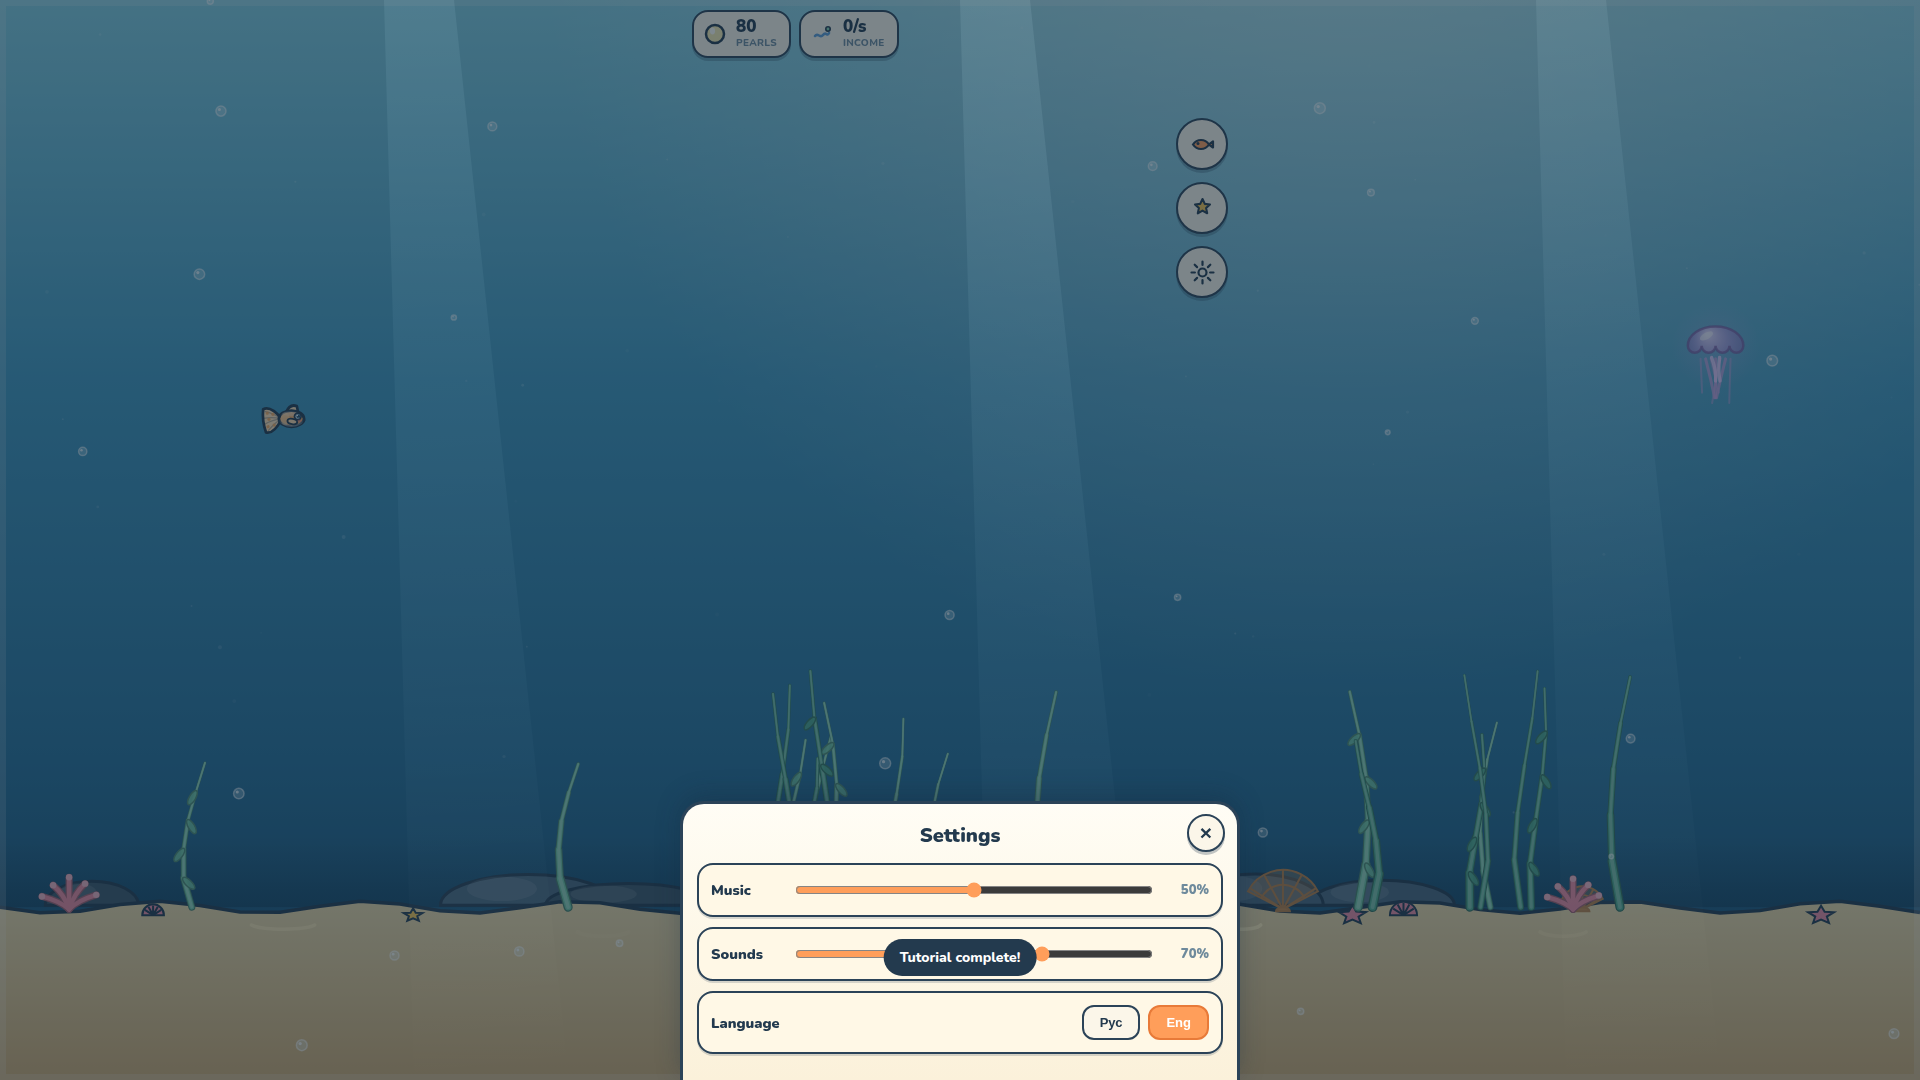
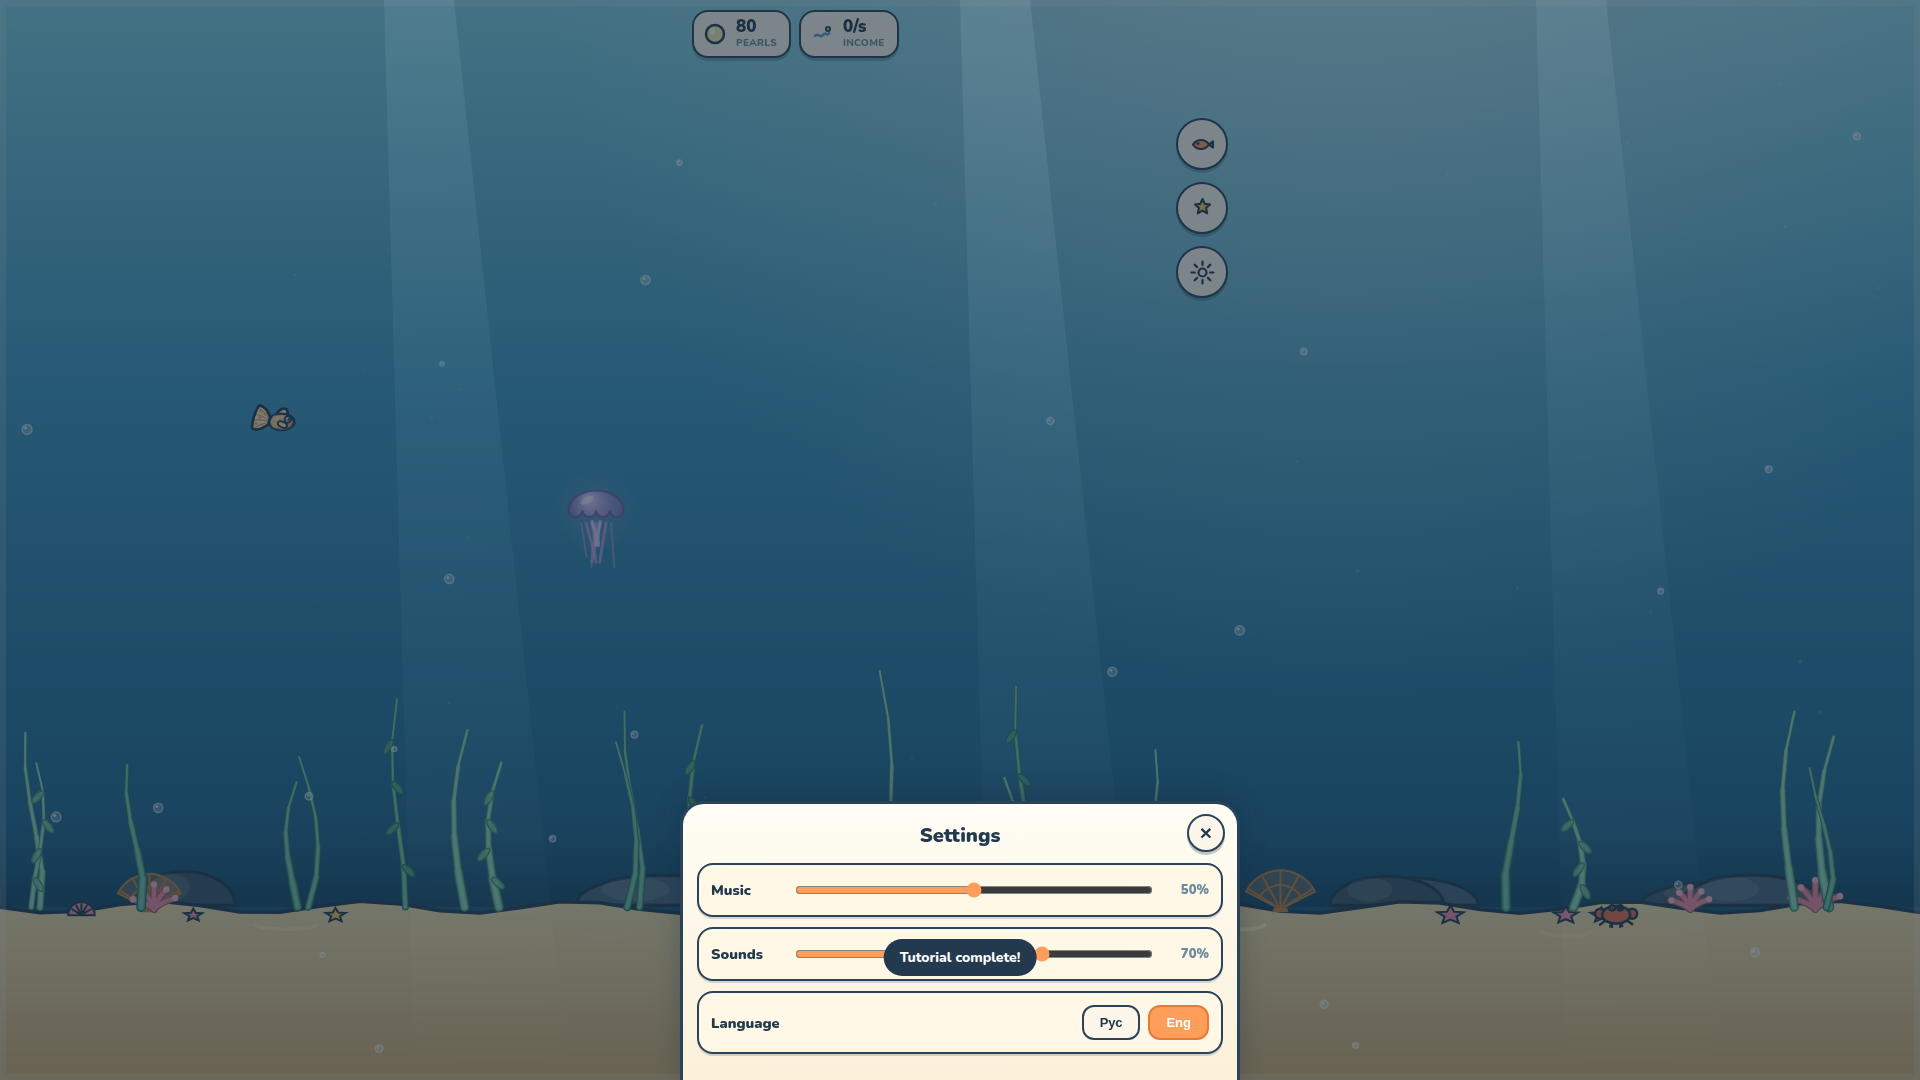
Аквариум: ×2 теперь приносит краб с табличкой
- кнопка «Доход ×2» убрана из нижнего ряда, там осталось три кнопки
  (Купить / Покормить / Мульти-тап)
- краб на дне раз в 70–130 секунд выносит табличку «Доход ×2» на шесте
  и держит её около 26 секунд: табличка светится, на ней значок ролика,
  тап по крабу запускает rewarded и удваивает фоновый доход на 5 минут
- пока ×2 активен, краб табличку не носит; после использования уходит
  на новый кулдаун; появление таблички сопровождается тостом и звуком
- табличка не уезжает за край экрана, когда краб доходит до стенки
- состояние таблички переживает resize (краб пересоздавался в
  buildScenery и терял её)
- тесты (55 проверок), генератор ассетов и тексты карточки обновлены

Claude-Session: https://claude.ai/code/session_01E1W4bJFq3d3FdtAVHT6PQt

diff --git a/index.html b/index.html
@@ -153,7 +153,6 @@
     <button class="abtn buyfish" id="buyBtn"><span class="bt" id="buyT">Купить</span><span class="bs"><svg viewBox="0 0 12 12"><circle cx="6" cy="6" r="4" fill="#F7EAB0" stroke="#fff" stroke-width="1.2"/></svg><span id="buyS">60</span></span></button>
     <button class="abtn main" id="feedBtn"><span class="bt" id="feedT">Покормить</span><span class="bs"><svg viewBox="0 0 12 12"><circle cx="6" cy="6" r="4" fill="#F7EAB0" stroke="#fff" stroke-width="1.2"/></svg><span id="feedS">8</span></span></button>
     <button class="abtn blue" id="multiBtn"><span class="bt" id="multiT">Мульти-тап</span><span class="bs"><svg viewBox="0 0 12 12"><path d="M3 2l7 4-7 4z" fill="#fff"/></svg><span id="multiS">2 мин</span></span></button>
-    <button class="abtn lav" id="x2Btn"><span class="bt" id="x2T">Доход ×2</span><span class="bs"><svg viewBox="0 0 12 12"><path d="M3 2l7 4-7 4z" fill="#fff"/></svg><span id="x2S">5 мин</span></span></button>
   </div>
 </div>
 <div id="side">
@@ -205,6 +204,8 @@ const STR = {
   tut3:{ru:"3/3 · Перетащи рыбку на такую же — они объединятся",en:"3/3 · Drag a fish onto a matching one to merge"},
   tutDone:{ru:"Обучение пройдено!",en:"Tutorial complete!"},
   x2:{ru:"Доход ×2",en:"Income ×2"}, x2on:{ru:"×2 идёт",en:"×2 active"},
+  crabSign:{ru:"Краб принёс табличку «Доход ×2» — тапни по нему!",
+            en:"The crab is holding an \u00abIncome \u00d72\u00bb sign — tap him!"},
   need:{ru:"Не хватает жемчуга",en:"Not enough pearls"},
   fishTitle:{ru:"Рыбки аквариума",en:"Your aquarium"},
   upTitle:{ru:"Улучшения аквариума",en:"Aquarium upgrades"},
@@ -436,10 +437,6 @@ function refreshHud(){
   $("multiT").textContent = mOn? T("multiOn") : T("multi");
   $("multiS").textContent = mOn? mins(S.multiUntil-Date.now()) : (lang()==="ru"?"2 мин":"2 min");
   $("multiBtn").classList.toggle("off", mOn);
-  const on=x2On();
-  $("x2T").textContent    = on? T("x2on") : T("x2");
-  $("x2S").textContent    = on? mins(S.x2Until-Date.now()) : (lang()==="ru"?"5 мин":"5 min");
-  $("x2Btn").classList.toggle("off", on);
   renderTut();
   if(modalOpen) buildModal(modalOpen);
 }
@@ -678,7 +675,9 @@ function buildScenery(){
   motes=[]; for(let i=0;i<Math.max(14,Math.round(W/40));i++)
     motes.push({ x:rr(0,W), y:rr(0,H*0.8), r:rr(0.8,2), sp:rr(2,7), dr:rr(2,9), ph:rr(0,6.28) });
   jelly={ x:rr(0,W), y:rr(H*0.28,H*0.5), dir:Math.random()<0.5?1:-1, sp:rr(9,16), ph:0 };
-  crab={ x:rr(60,W-60), dir:Math.random()<0.5?1:-1, sp:rr(10,18), ph:0 };
+  crab = Object.assign({ x:rr(60,W-60), dir:Math.random()<0.5?1:-1, sp:rr(10,18), ph:0,
+    sign:false, signLife:0, signCd:rr(20,40) }, crab||{});
+  crab.x=Math.max(40, Math.min(W-40, crab.x));
 }
 function buildBg(){
   bgCan=document.createElement('canvas'); bgCan.width=Math.max(1,W*DPR); bgCan.height=Math.max(1,H*DPR);
@@ -855,9 +854,40 @@ function drawJelly(t,dt){
   ctx.beginPath(); ctx.ellipse(-bell*0.35,-bell*0.38,bell*0.28,bell*0.13,-0.5,0,6.28); ctx.fill();
   ctx.restore();
 }
+// краб периодически выносит табличку «Доход ×2» — тап по нему запускает ролик
+const SIGN_LIFE=26, SIGN_CD=[70,130];
+function crabY(t){ return sandY+6+Math.abs(Math.sin(t*6))*2; }
+function updateCrab(dt){
+  const c=crab; if(!c) return;
+  if(x2On()){ c.sign=false; c.signCd=Math.max(c.signCd, 20); return; }  // пока ×2 идёт — таблички нет
+  if(c.sign){ c.signLife-=dt; if(c.signLife<=0){ c.sign=false; c.signCd=rr(SIGN_CD[0],SIGN_CD[1]); } }
+  else { c.signCd-=dt; if(c.signCd<=0){ c.sign=true; c.signLife=SIGN_LIFE; if(S.tut>=3) toast(T("crabSign")); sfx("coin"); } }
+}
+function crabHit(x,y,t){
+  const c=crab; if(!c||!c.sign) return false;
+  return Math.hypot(c.x-x, crabY(t||tSec)-y) < 46;
+}
 function drawCrab(t,dt){
   const c=crab; c.x+=c.dir*c.sp*dt; if(c.x>W-40) c.dir=-1; if(c.x<40) c.dir=1;
-  const y=sandY+6+Math.abs(Math.sin(t*6))*2;
+  const y=crabY(t);
+  if(c.sign){ // табличка на шесте в клешне + мягкое свечение, чтобы заметили
+    const sy=y-58+Math.sin(t*2)*3;
+    ctx.save();
+    const gl=ctx.createRadialGradient(c.x,sy,2,c.x,sy,54);
+    gl.addColorStop(0,'rgba(255,235,170,0.30)'); gl.addColorStop(1,'rgba(255,235,170,0)');
+    ctx.fillStyle=gl; ctx.beginPath(); ctx.arc(c.x,sy,54,0,6.28); ctx.fill();
+    ctx.strokeStyle='#8A6B3E'; ctx.lineWidth=3; ctx.lineCap='round';
+    ctx.beginPath(); ctx.moveTo(c.x-12,y-6); ctx.lineTo(Math.max(20,Math.min(W-20,c.x))-4,sy+12); ctx.stroke();
+    ctx.font='900 13px Nunito, sans-serif'; ctx.textAlign='center'; ctx.textBaseline='middle';
+    const label=T("x2"), wpx=ctx.measureText(label).width+30;
+    const sx=Math.max(wpx/2+6, Math.min(W-wpx/2-6, c.x));     // табличка не уезжает за край экрана
+    ctx.fillStyle=PAPER; ctx.strokeStyle=INK; ctx.lineWidth=2.5;
+    roundRect(ctx, sx-wpx/2, sy-13, wpx, 26, 9); ctx.fill(); ctx.stroke();
+    ctx.fillStyle='#B0472E';                                  // значок «посмотреть видео»
+    ctx.beginPath(); ctx.moveTo(sx-wpx/2+9,sy-5); ctx.lineTo(sx-wpx/2+17,sy); ctx.lineTo(sx-wpx/2+9,sy+5); ctx.closePath(); ctx.fill();
+    ctx.fillStyle=INK; ctx.fillText(label, sx+5, sy);
+    ctx.restore();
+  }
   ctx.save(); ctx.translate(c.x,y); ctx.scale(c.dir,1);
   ctx.fillStyle='#E06A4C'; ctx.strokeStyle=INK; ctx.lineWidth=2.5; ctx.lineCap='round';
   // лапки
@@ -1907,6 +1937,7 @@ function frame(now){
   drawTrail(dt);
   drawPopups();
   drawBubbles(tSec,dt);
+  updateCrab(dt);
   drawCrab(tSec,dt);
   requestAnimationFrame(frame);
 }
@@ -1942,6 +1973,10 @@ function onUp(e){
     const target=swimmers.find(s=> s!==dragSw && canMerge(dragSw,s) && Math.hypot(s.x-e.clientX, s.y-e.clientY)<70);
     if(target) mergeFish(dragSw,target);
     dragSw=null; downSw=null; return;
+  }
+  if(!downSw && !moved && crabHit(e.clientX, e.clientY)){  // тап по крабу с табличкой
+    crab.sign=false; crab.signCd=rr(SIGN_CD[0],SIGN_CD[1]);
+    claimX2(); downSw=null; return;
   }
   if(downSw && !moved){                    // короткий тап по рыбке
     if(multiOn()) doCollect(e.clientX,e.clientY);
@@ -1990,6 +2025,8 @@ window.__mergeFirstPair = () => {
 window.__skipTut = () => tutAdvance(3);
 window.__setVolumes = (mus,sfxv) => { S.musVol=mus; S.sfxVol=sfxv; applyVolumes(); persist(true); };
 window.__behOf = lvl => LV(lvl).beh;
+window.__crabSign = () => { crab.sign=true; crab.signLife=SIGN_LIFE; return {x:Math.round(crab.x), y:Math.round(crabY(tSec))}; };
+window.__crabHasSign = () => !!(crab && crab.sign);
 
 // ---------- Boot ----------
 function boot(raw){
@@ -2001,7 +2038,6 @@ function boot(raw){
   $("tutSkip").onclick  = ()=>tutAdvance(3);
   $("buyBtn").onclick   = buyFish;
   $("multiBtn").onclick = claimMulti;
-  $("x2Btn").onclick    = claimX2;
   $("fishBtn").onclick  = ()=>openModal('fish');
   $("upBtn").onclick    = ()=>openModal('up');
   $("setBtn").onclick   = openSettings;

diff --git a/store-assets/CONSOLE-FIELDS.md b/store-assets/CONSOLE-FIELDS.md
@@ -73,7 +73,7 @@
 Живой подводный мир — лучи света, водоросли, кораллы, медуза и краб на дне — успокаивает и радует.
 ```
 
-### Как играть (983/1000)
+### Как играть (1010/1000)
 
 ```
 1. Тапайте по рыбке — она приносит жемчуг. Тап по пустой воде дохода не даёт, только рябь.
@@ -82,11 +82,11 @@
 
 3. Когда две рыбки одного вида выросли, зажмите одну и перетащите на вторую — цель подсветится кругом. Отпустите: получится малёк следующего вида, а сам вид откроется в магазине.
 
-4. «Покормить» бросает корм: хлопья тонут, рыбки едят их не спеша. Когда зелёная шкала дойдёт до золотой риски, рыбка сыта — платит вдвое больше за тап и растёт быстрее. Сытость постепенно тает.
+4. «Покормить» бросает корм: рыбки едят не спеша. Когда зелёная шкала дойдёт до золотой риски, рыбка сыта — платит вдвое больше за тап и растёт быстрее. Сытость постепенно тает.
 
-5. «Мульти-тап» после видео две минуты собирает жемчуг со всех рыбок любым тапом, «Доход ×2» удваивает фоновый доход на 5 минут.
+5. «Мульти-тап» после видео две минуты собирает жемчуг со всех рыбок любым тапом. А краб на дне иногда выносит табличку «Доход ×2» — тапните по нему, чтобы удвоить фоновый доход.
 
-6. Боковые кнопки — магазин рыбок, улучшения и настройки: громкость музыки и звуков, выбор языка.
+6. Боковые кнопки — магазин, улучшения и настройки: громкость музыки и звуков, выбор языка.
 ```
 
 ---
@@ -127,7 +127,7 @@ Upgrade the tank: rich food is more filling, the aerator raises background incom
 A living underwater world — light rays, plants, corals, a jellyfish and a crab on the sand — keeps things calm and cheerful.
 ```
 
-### Как играть (991/1000)
+### Как играть (1002/1000)
 
 ```
 1. Tap a fish — it pays out pearls. Tapping empty water gives nothing, just a ripple.
@@ -136,9 +136,9 @@ A living underwater world — light rays, plants, corals, a jellyfish and a crab
 
 3. When two fish of the same species are grown, drag one onto the other — a valid target lights up. Release to merge them into a fry of the next species, which unlocks in the shop.
 
-4. "Feed" drops food: the flakes sink and fish eat unhurriedly. Once the green bar reaches the golden mark the fish is full — double pearls per tap and faster growth. Satiety slowly fades.
+4. "Feed" drops food and fish eat unhurriedly. Once the green bar reaches the golden mark the fish is full — double pearls per tap and faster growth. Satiety slowly fades.
 
-5. "Multi-tap" after a video lets any tap collect from every fish for two minutes; "Income ×2" doubles background income for five minutes.
+5. "Multi-tap" after a video lets any tap collect from every fish for two minutes. The crab on the sand sometimes holds an "Income ×2" sign — tap him to double background income.
 
-6. The side buttons open the fish shop, upgrades and settings: volume sliders and the language choice.
+6. The side buttons open the shop, upgrades and settings: volume sliders and the language.
 ```
